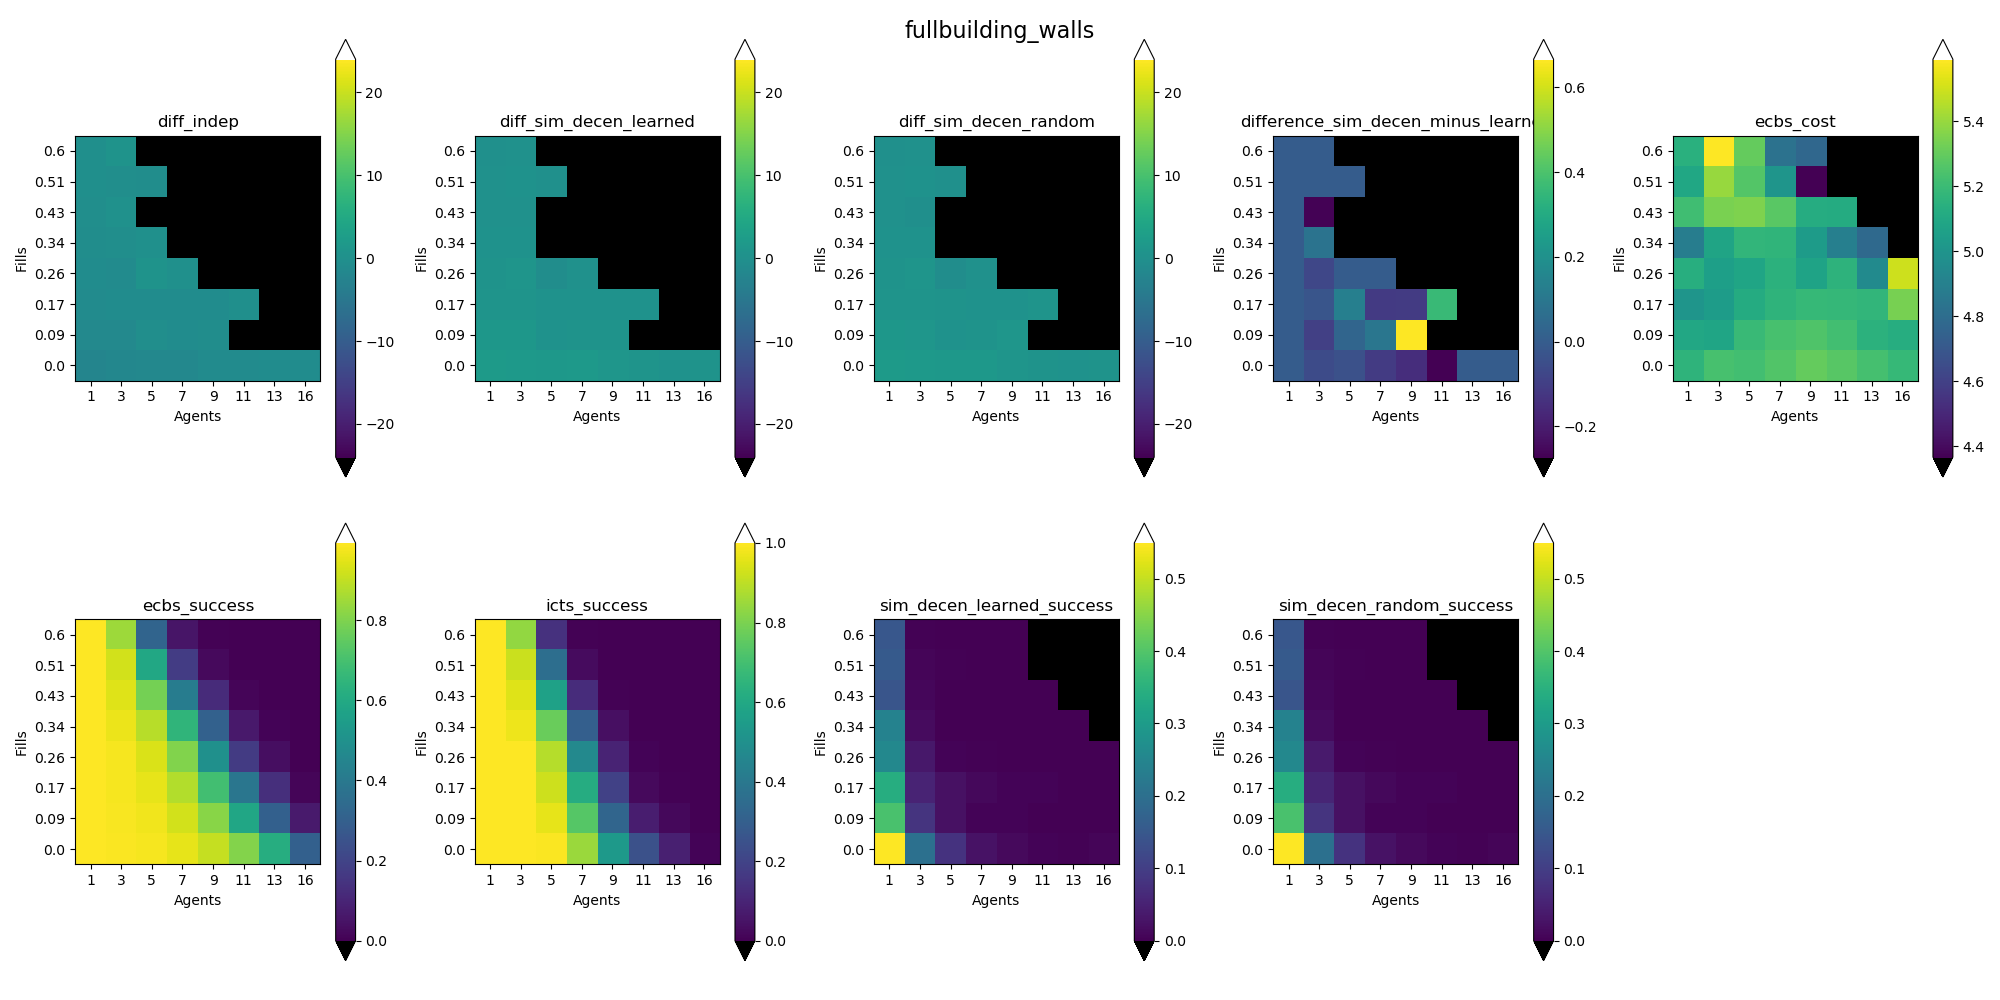
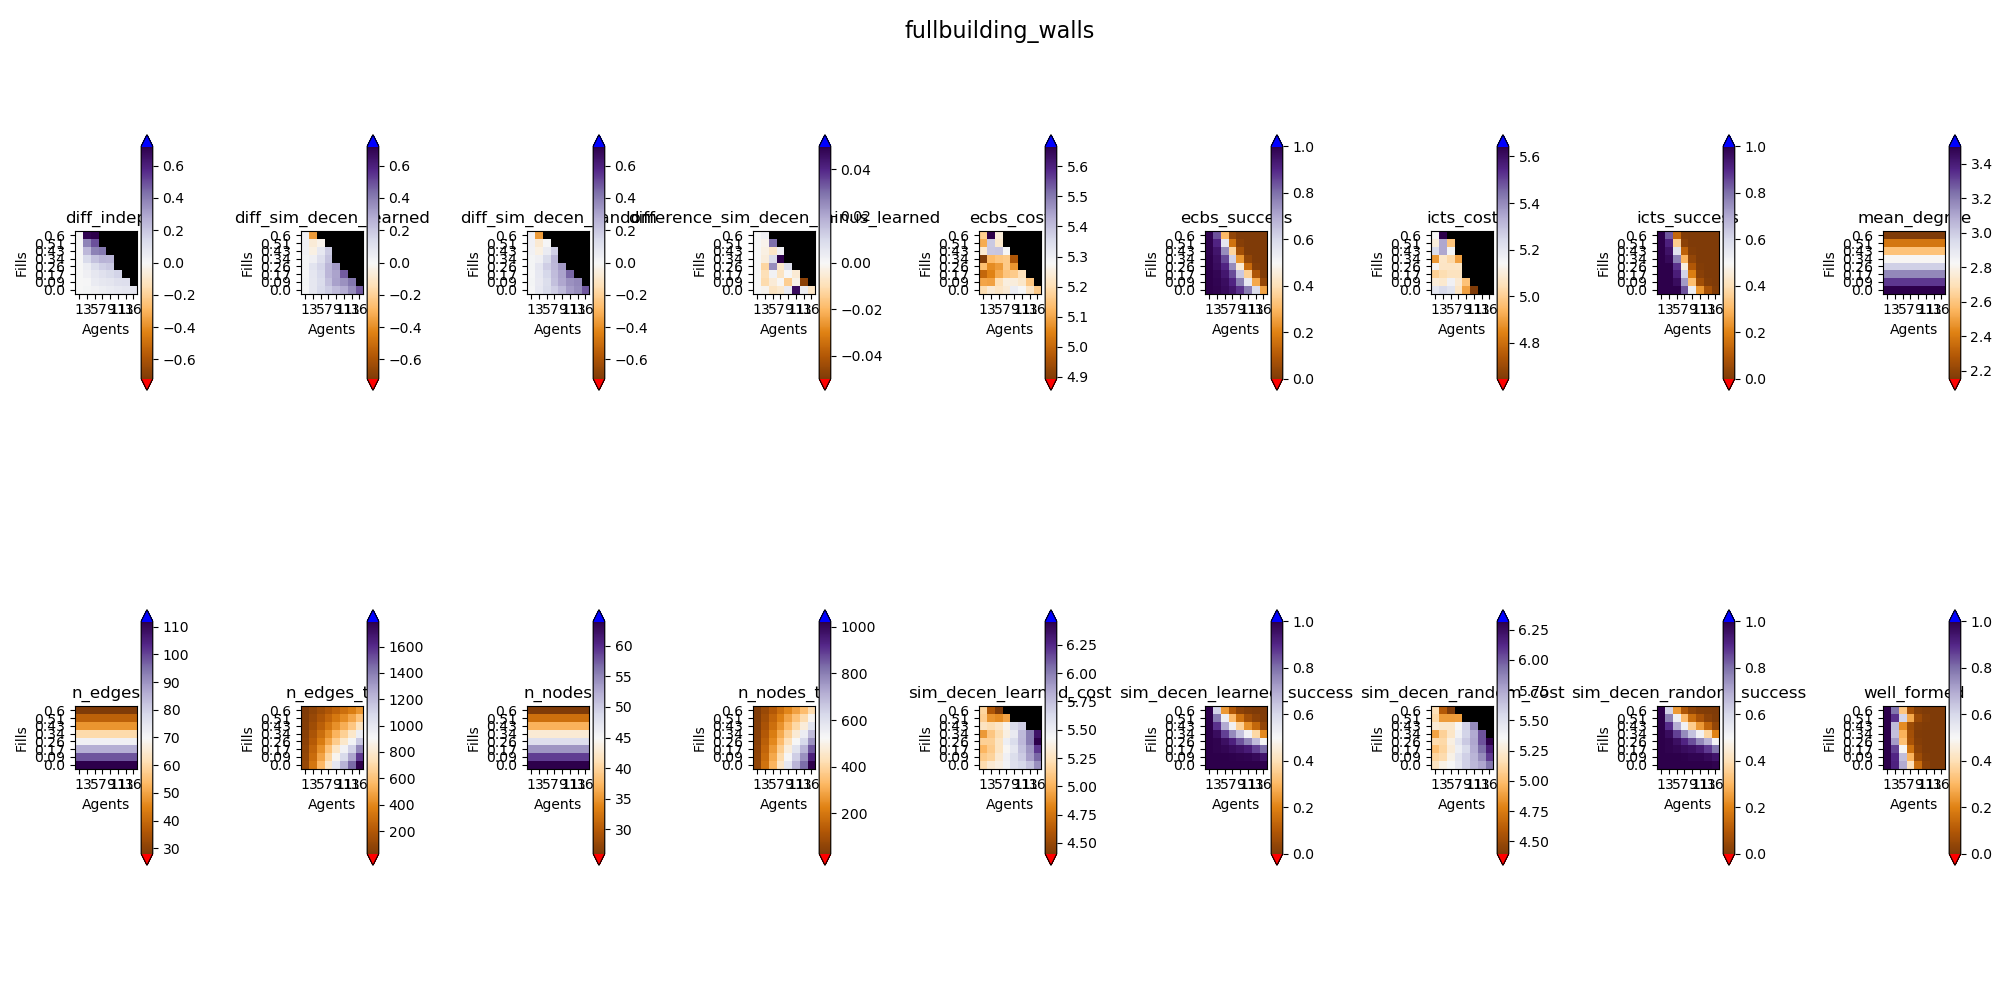
results that show how bad it is

diff --git a/scenarios/main_eval.py b/scenarios/main_eval.py
@@ -68,7 +68,7 @@ def init_values_main():
     size = 8  # size for all scenarios
     n_fills = 8  # how many different fill values there should be
     n_n_agentss = 8  # how many different numbers of agents should there be"""
-    n_runs = 128  # how many runs per configuration
+    n_runs = 512  # how many runs per configuration
     max_fill = .6  # maximal fill to sample until
     low_agents = 1  # lowest number of agents
     high_agents = 16  # highest number of agents
@@ -109,8 +109,8 @@ def add_colums(df1: pd.DataFrame, df2: pd.DataFrame):
 
 def plot_images(
         df: pd.DataFrame, generator_name: str,
-        title: str, normalize_cbars_for: Optional[str] = None,
-        success_required: float = .05):
+        title: str, normalize_cbars_for: List[str] = [],
+        success_required: float = .2):
     evaluations = sorted(list(set(df.index.get_level_values('evaluations'))))
     n_agentss = sorted(list(set(df.index.get_level_values('n_agentss'))))
     n_n_agentss = len(n_agentss)
@@ -127,14 +127,14 @@ def plot_images(
     fig.suptitle(title+generator_name, fontsize=16)
     subplot_rows: int = 2
     subplot_cols: int = int(np.ceil(len(evaluations) / 2))
-    minmax: Tuple[Optional[float], Optional[float]] = (None, None)
+    normalizations: Dict[str, Tuple[Optional[float], Optional[float]]] = {}
 
-    if normalize_cbars_for is not None:
+    for wildcard in normalize_cbars_for:
         # same min / max for top bottom plots
         mins = 99999
         maxs = 0
         for i, ev in enumerate(evaluations):
-            if normalize_cbars_for in ev:
+            if wildcard in ev:
                 this_ev_data = df.xs(ev, level=EVALUATIONS)
                 for i_f, i_a in product(range(n_fills),
                                         range(n_n_agentss)):
@@ -142,18 +142,20 @@ def plot_images(
                     n_agents = n_agentss[i_a]
                     this_data = this_ev_data.loc[(
                         generator_name, fill, n_agents)].to_numpy()
-                    if len(this_data[np.logical_not(np.isnan(this_data))]) > 0:
+                    n_required = ceil(len(this_data) * success_required)
+                    if len(this_data[np.logical_not(np.isnan(this_data))]) > n_required:
                         this_mean = np.mean(
                             this_data[np.logical_not(np.isnan(this_data))])
                         mins = min(this_mean, mins)
                         maxs = max(this_mean, maxs)
-        minmax = (-1*max(abs(mins), abs(maxs)), max(abs(mins), abs(maxs)))
+        normalizations[wildcard] = (-1*max(abs(mins), abs(maxs)),
+                                    max(abs(mins), abs(maxs)))
 
     for i, ev in enumerate(evaluations):
-        if normalize_cbars_for in ev:
-            this_minmax = minmax
-        else:
-            this_minmax = (None, None)
+        this_minmax: Tuple[Optional[float], Optional[float]] = (None, None)
+        for wildcard in normalize_cbars_for:
+            if wildcard in ev:
+                this_minmax = normalizations[wildcard]
         this_ev_data = df.xs(ev, level=EVALUATIONS)
         r_final = np.full([n_fills, n_n_agentss], np.nan, dtype=float)
         for i_f, i_a in product(range(n_fills),
@@ -301,9 +303,9 @@ def make_full_df():
     df_results.sort_index(inplace=True)
     assert len(index_arrays) == df_results.index.lexsort_depth
 
-    pbm = ProgressBar("main", 0)  # timing only
+    pbm = ProgressBar("main", n_runs)
     with Pool(4) as p:
-        arguments = [(i_r, idx, generators, fills, n_agentss, size)
+        arguments = [(i_r, pbm, idx, generators, fills, n_agentss, size)
                      for i_r in range(n_runs)]
         df_cols = p.starmap(evaluate_full, arguments, chunksize=1)
     for df_col in df_cols:
@@ -315,13 +317,13 @@ def make_full_df():
     #                        'display.max_columns',
     #                        None):  # all rows and columns
     #     print(df_results)
-    print(df_results.info)
+    df_results.info()
 
     df_results.to_pickle(get_fname("full", "_", "pkl"))
     return df_results
 
 
-def evaluate_full(i_r, idx, generators, fills, n_agentss, size):
+def evaluate_full(i_r, pbm, idx, generators, fills, n_agentss, size):
     col_name = "seed{}".format(i_r)
     pb = ProgressBar("column >{}<".format(col_name),
                      (len(generators) * len(fills) * len(n_agentss)), 50)
@@ -464,69 +466,65 @@ def evaluate_full(i_r, idx, generators, fills, n_agentss, size):
                         col_name
                     ]
                 )
-        # comparing costs to optimal solution #################################
+        # decentralized sim ###################################################
+        if SIM_DECEN_RANDOM_SUCCESS in evaluations:
+            decen_cost_r = cost_sim_decentralized_random(
+                env, starts, goals)
+            df_col.loc[(genstr(gen), fill, n_agentss[i_a],
+                        SIM_DECEN_RANDOM_SUCCESS),
+                       col_name] = int(decen_cost_r != INVALID)
+            if (SIM_DECEN_RANDOM_COST in evaluations and
+                    decen_cost_r != INVALID):
+                df_col.loc[(genstr(gen), fill, n_agentss[i_a],
+                            SIM_DECEN_RANDOM_COST),
+                           col_name] = decen_cost_r
+        if SIM_DECEN_LEARNED_SUCCESS in evaluations:
+            decen_cost_l = cost_sim_decentralized_learned(
+                env, starts, goals)
+            df_col.loc[(genstr(gen), fill, n_agentss[i_a],
+                        SIM_DECEN_LEARNED_SUCCESS),
+                       col_name] = int(decen_cost_l != INVALID)
+            if (SIM_DECEN_LEARNED_COST in evaluations and
+                    decen_cost_l != INVALID):
+                df_col.loc[(genstr(gen), fill, n_agentss[i_a],
+                            SIM_DECEN_LEARNED_COST),
+                           col_name] = decen_cost_l
+        # comparing decentralized to optimal solution #########################
         if df_col.loc[
             (genstr(gen), fill,
              n_agentss[i_a], ECBS_SUCCESS), col_name] == SUCCESS:
             ecbs_cost = df_col.loc[
                 (genstr(gen), fill,
                  n_agentss[i_a], ECBS_COST), col_name]
+            # indep ...........................................................
             if DIFF_INDEP in evaluations:
                 indep_cost = cost_independent(env, starts, goals)
                 if indep_cost != INVALID:
                     df_col.loc[
                         (genstr(gen), fill, n_agentss[i_a], DIFF_INDEP),
                         col_name] = ecbs_cost - indep_cost
-            if DIFF_SIM_DECEN_RANDOM in evaluations:
-                decen_cost_r = cost_sim_decentralized_random(
-                    env, starts, goals)
-                if decen_cost_r != INVALID:
-                    df_col.loc[
-                        (genstr(gen), fill,
-                         n_agentss[i_a], DIFF_SIM_DECEN_RANDOM),
-                        col_name] = decen_cost_r - ecbs_cost
-                    # if decen_cost < ecbs_cost:
-                    #     print(
-                    #         '~~ decen_cost < ecbs_cost for ... ~~~' +
-                    #         f'env: {str(env)}\nstarts: {str(starts)}\n' +
-                    #         f'goals: {str(goals)}\n' +
-                    #         f'~~~~~~~~~~~~\n' +
-                    #         f'{repr((env, starts, goals))}\n' +
-                    #         f'~~~~~~~~~~~~')
-                    # TODO: It is true, that sometimes, decentralized
-                    # solutions have lower cost than ecbs, which seems to
-                    # be down to decentralized solutions ignoring finished
-                    # agents.
-                if SIM_DECEN_RANDOM_SUCCESS in evaluations:
-                    df_col.loc[
-                        (genstr(gen), fill,
-                         n_agentss[i_a], SIM_DECEN_RANDOM_SUCCESS),
-                        col_name] = int(decen_cost_r != INVALID)
-                if (SIM_DECEN_RANDOM_COST in evaluations and
-                        decen_cost_r != INVALID):
-                    df_col.loc[
-                        (genstr(gen), fill,
-                         n_agentss[i_a], SIM_DECEN_RANDOM_COST),
-                        col_name] = decen_cost_r
-            if DIFF_SIM_DECEN_LEARNED in evaluations:
-                decen_cost_l = cost_sim_decentralized_learned(
-                    env, starts, goals)
-                if decen_cost_l != INVALID:
-                    df_col.loc[
-                        (genstr(gen), fill,
-                         n_agentss[i_a], DIFF_SIM_DECEN_LEARNED),
-                        col_name] = decen_cost_l - ecbs_cost
-                if SIM_DECEN_LEARNED_SUCCESS in evaluations:
-                    df_col.loc[
-                        (genstr(gen), fill,
-                         n_agentss[i_a], SIM_DECEN_LEARNED_SUCCESS),
-                        col_name] = int(decen_cost_l != INVALID)
-                if (SIM_DECEN_LEARNED_COST in evaluations and
-                        decen_cost_l != INVALID):
-                    df_col.loc[
-                        (genstr(gen), fill,
-                         n_agentss[i_a], SIM_DECEN_LEARNED_COST),
-                        col_name] = decen_cost_l
+            decen_cost_r = df_col.loc[(genstr(gen), fill, n_agentss[i_a],
+                                       SIM_DECEN_RANDOM_COST), col_name]
+            decen_cost_l = df_col.loc[(genstr(gen), fill, n_agentss[i_a],
+                                       SIM_DECEN_LEARNED_COST), col_name]
+            # decen random ....................................................
+            if (DIFF_SIM_DECEN_RANDOM in evaluations and
+                    decen_cost_r != INVALID):
+                df_col.loc[
+                    (genstr(gen), fill,
+                     n_agentss[i_a], DIFF_SIM_DECEN_RANDOM),
+                    col_name] = decen_cost_r - ecbs_cost
+                # TODO: It is true, that sometimes, decentralized solutions
+                # have lower cost than ecbs, which seems to be down to
+                # decentralized solutions ignoring finished agents.
+            # decen learned ...................................................
+            if (DIFF_SIM_DECEN_LEARNED in evaluations and
+                    decen_cost_l != INVALID):
+                df_col.loc[
+                    (genstr(gen), fill,
+                     n_agentss[i_a], DIFF_SIM_DECEN_LEARNED),
+                    col_name] = decen_cost_l - ecbs_cost
+            # diff random minus learned .......................................
             if (DIFFERENCE_SIM_DECEN_RADOM_MINUS_LEARNED in evaluations
                     and decen_cost_r != INVALID and decen_cost_l != INVALID):
                 df_col.loc[
@@ -535,6 +533,7 @@ def evaluate_full(i_r, idx, generators, fills, n_agentss, size):
                      DIFFERENCE_SIM_DECEN_RADOM_MINUS_LEARNED),
                     col_name] = decen_cost_r - decen_cost_l
 
+    pbm.progress(i_r)
     pb.end()
     return df_col
 
@@ -672,7 +671,7 @@ if __name__ == "__main__":
             df_results,
             title="full",
             generator_name=gen,
-            normalize_cbars_for="diff"
+            normalize_cbars_for=["difference", "diff_"]
         )
 
     # compare expanded nodes over graph properties
